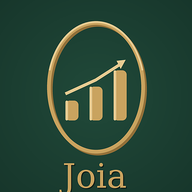
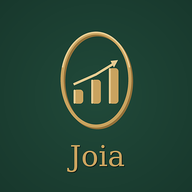
icone: margem de seguranca para o Android nao cortar a palavra Joia

Changed region(s): [[0.2188, 0.0938, 0.7812, 1.0]]

diff --git a/app.js b/app.js
@@ -22,7 +22,7 @@ function sessaoCaiu(){
    for diferente da que esta rodando, mostra um aviso com um botao que
    recarrega ignorando o que estiver guardado.
    ========================================================== */
-var VERSAO_APP='6';
+var VERSAO_APP='7';
 /* ==========================================================
    REGISTRA O SERVICE WORKER
 
@@ -122,7 +122,7 @@ function telaLogin(erro){
   $('app').innerHTML='<div class="lg">'+
    /* o "N" era do nome antigo. Agora usa o proprio icone do aplicativo,
       para a tela de entrada e o atalho no celular serem a mesma marca. */
-   '<div class="lgLogo"><img src="icone.png?v=2" alt="Joia Gestão"></div>'+
+   '<div class="lgLogo"><img src="icone.png?v=3" alt="Joia Gestão"></div>'+
    '<h1>Joia Gestão</h1><p>acompanhe sua loja de onde estiver</p>'+
    '<div class="lgCard">'+
     '<div class="cp"><label>Usuário</label><input id="lgU" autocapitalize="off" autocomplete="username"></div>'+

diff --git a/index.html b/index.html
@@ -22,8 +22,8 @@
 <meta http-equiv="Cache-Control" content="no-cache, no-store, must-revalidate">
 <meta http-equiv="Pragma" content="no-cache">
 <meta http-equiv="Expires" content="0">
-<link rel="apple-touch-icon" href="icone.png?v=2">
-<link rel="icon" href="icone.png?v=2">
+<link rel="apple-touch-icon" href="icone.png?v=3">
+<link rel="icon" href="icone.png?v=3">
 <link href="https://fonts.googleapis.com/css2?family=Inter:wght@400;500;600;700;800&display=swap" rel="stylesheet">
 <style>
 /* ==========================================================
@@ -167,6 +167,6 @@ input,select{font-family:inherit;font-size:16px}
 <body>
 <div id="app"><div class="carreg"><div class="spin"></div>carregando...</div></div>
 <script src="https://cdn.jsdelivr.net/npm/@supabase/supabase-js@2"></script>
-<script src="app.js?v=6"></script>
+<script src="app.js?v=7"></script>
 </body>
 </html>

diff --git a/sw.js b/sw.js
@@ -20,7 +20,7 @@
    o celular sem sinal no meio da loja — devolve a ultima copia, para o
    franqueado ao menos ver os numeros que ja tinha carregado.
    ========================================================== */
-const CACHE = 'joia-gestao-v5';
+const CACHE = 'joia-gestao-v7';
 
 /* assume o controle assim que instala, sem esperar a aba fechar */
 self.addEventListener('install', e => self.skipWaiting());
